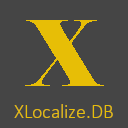
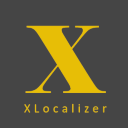
rc1

Changed region(s): [[0.1875, 0.1562, 0.8438, 0.75], [0.0938, 0.8125, 0.9062, 0.9375]]

diff --git a/XLocalizer.DB/DependencyInjection.cs b/XLocalizer.DB/DependencyInjection.cs
@@ -1,5 +1,4 @@
-using Microsoft.AspNetCore.Mvc.DataAnnotations;
-using Microsoft.EntityFrameworkCore;
+using Microsoft.EntityFrameworkCore;
 using Microsoft.Extensions.DependencyInjection;
 using System;
 using Microsoft.Extensions.Localization;
@@ -11,7 +10,9 @@ using XLocalizer.DataAnnotations;
 using XLocalizer.Common;
 using XLocalizer.Identity;
 using XLocalizer.Translate;
-using XLocalizer.ModelBinding;
+using Microsoft.AspNetCore.Mvc;
+using Microsoft.Extensions.Options;
+using XLocalizer.MetadataProviders;
 
 namespace XLocalizer.DB
 {
@@ -151,26 +152,9 @@ namespace XLocalizer.DB
             // Use .Create() method for creating localizers.
             builder.Services.AddSingleton<IXStringLocalizerFactory, DbStringLocalizerFactory<TResource>>();
             builder.Services.AddSingleton<IXHtmlLocalizerFactory, DbHtmlLocalizerFactory<TResource>>();
-            
 
-            // Configure route culture provide
-            return builder.AddDbDataManagers<TContext>()
-                          .AddDbDataAnnotationsLocalization<TResource>()
-                          .AddModelBindingLocalization()
-                          .AddIdentityErrorsLocalization()
-                          .WithTranslationService<TTranslator>();
-        }
-
-        /// <summary>
-        /// Add DataAnnotations localization with specified resource type.
-        /// </summary>
-        /// <param name="builder"></param>
-        /// <returns></returns>
-        public static IMvcBuilder AddDbDataAnnotationsLocalization<TResource>(this IMvcBuilder builder)
-            where TResource : class, IXDbResource
-        {
-            // Add ExpressValdiationAttributes to provide error messages by default without using ErrorMessage="..."
-            builder.Services.AddTransient<IValidationAttributeAdapterProvider, ExpressValidationAttributeAdapterProvider>();
+            // Add custom providers for overriding default modelbinding and data annotations errors
+            builder.Services.AddSingleton<IConfigureOptions<MvcOptions>, ConfigureMvcOptions>();
 
             // Add data annotations locailzation
             builder.AddDataAnnotationsLocalization(ops =>
@@ -179,7 +163,10 @@ namespace XLocalizer.DB
                 ops.DataAnnotationLocalizerProvider = (type, factory) => factory.Create(typeof(TResource));
             });
 
-            return builder;
+            // Configure route culture provide
+            return builder.AddDbDataManagers<TContext>()
+                          .AddIdentityErrorsLocalization()
+                          .WithTranslationService<TTranslator>();
         }
     }
 }
